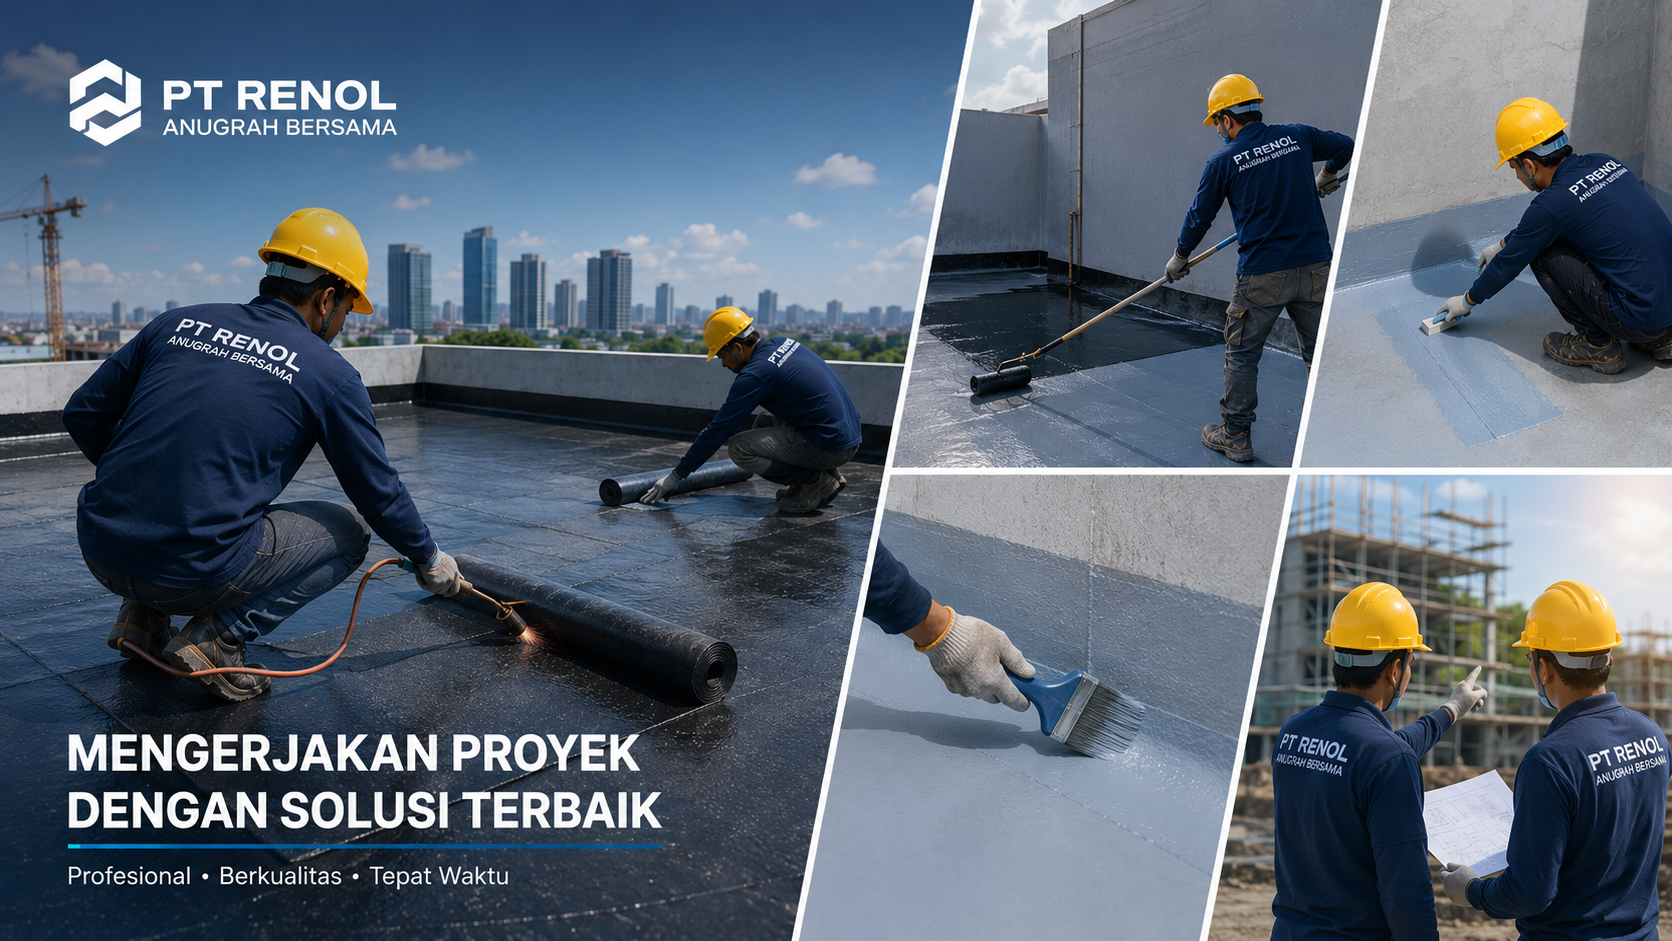
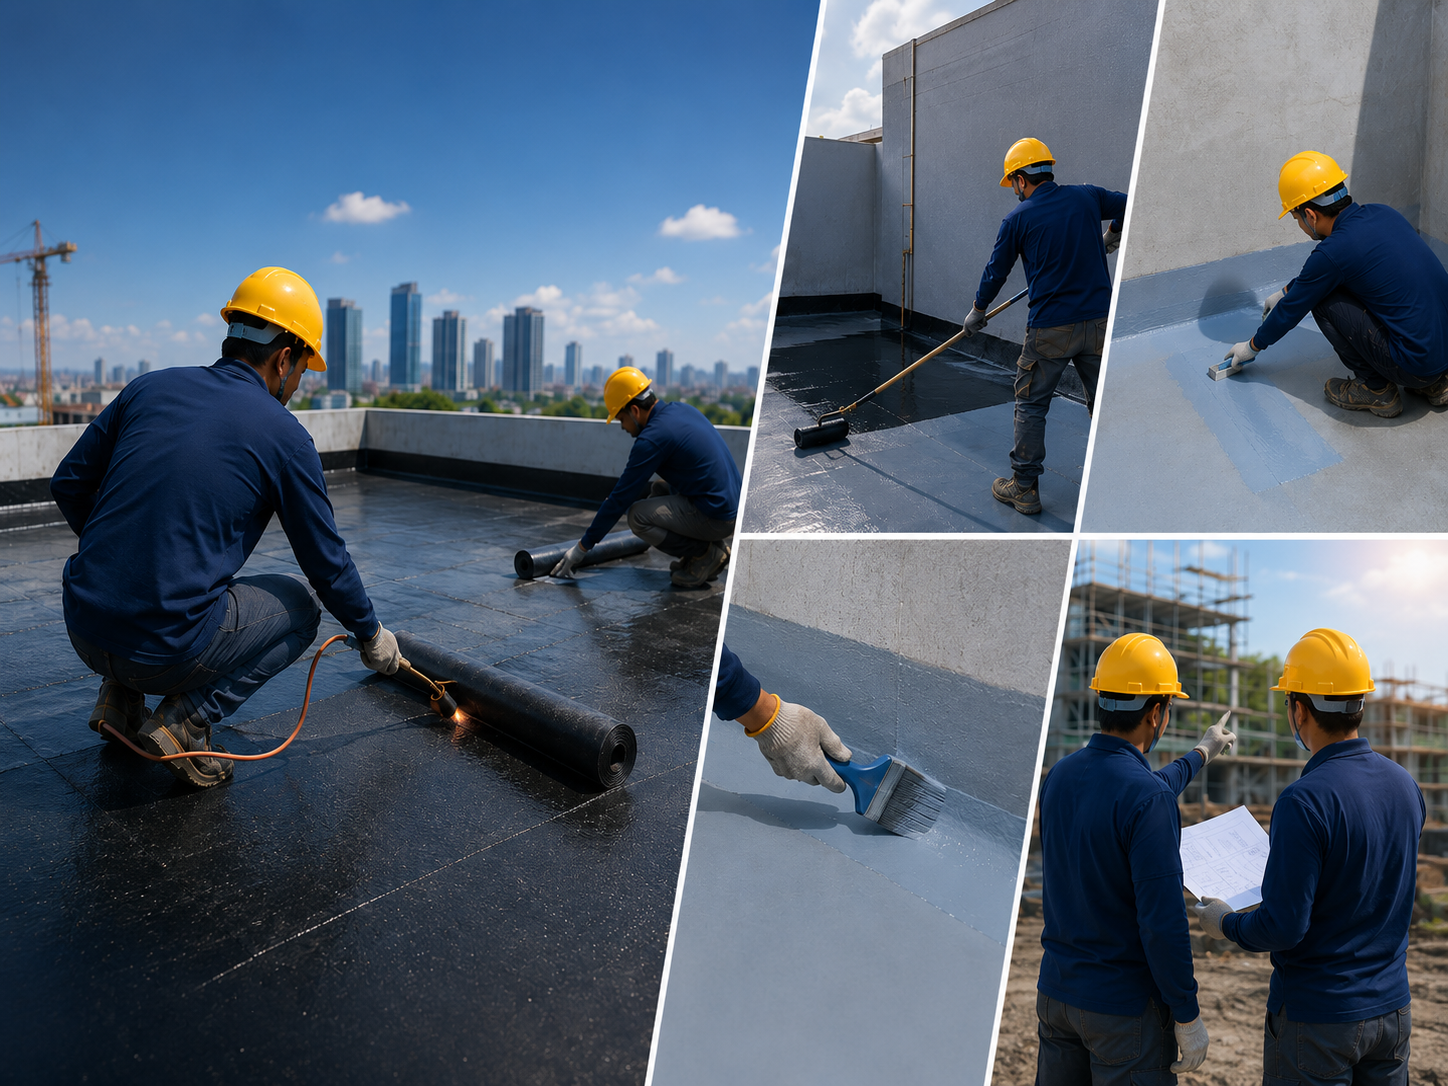
fix done

diff --git a/src/components/Produk/Product.jsx b/src/components/Produk/Product.jsx
@@ -55,69 +55,78 @@ const Product = () => {
           </div>
         </div>
       </div>
-      <div className="grid grid-cols-1 gap-4 items-center md:grid-cols-2 lg:grid-cols-4">
+      <div className="grid grid-cols-1 gap-4  items-center md:grid-cols-2 lg:grid-cols-4">
         {/* untuk animasi */}
-        {filteredProduk.map((item, index) => (
-          <div
-            data-aos="fade-up"
-            data-aos-delay="200"
-            key={index}
-            className="w-full group"
-          >
-            <div className="  group-hover:-translate-y-2 transition-all duration-300 outline-0  outline-[#8db03e] group-hover:outline-1   bg-white rounded-2xl overflow-hidden shadow">
-              <div className=" bg-rab-navy h-50 relative ">
-                <span className=" py-1.5 shadow-2xl top-2 left-2 text-sm group-hover:bg-rab-green transition-colors duration-500  z-2 absolute  px-2 bg-black/60  text-center rounded-full backdrop-blur-3xl text-white ">
-                  {item.kategori}
-                </span>
-                <img
-                  src={item.img}
-                  alt={item.nama}
-                  className="object-cover h-50 group-hover:scale-110 transition-all w-full duration-700  mx-auto "
-                />
-              </div>
-              <div className="px-4 py-6 space-y-1">
-                <div className="space-y-1.5">
-                  <h1 className="font-bold text-rab-navy text-xl">
-                    {item.nama}
-                  </h1>
+
+        {filteredProduk.length > 0 ? (
+          filteredProduk.map((item, index) => (
+            <div
+              data-aos="fade-up"
+              data-aos-delay="200"
+              key={index}
+              className="w-full group"
+            >
+              <div className="  group-hover:-translate-y-2 transition-all duration-300 outline-0  outline-[#8db03e] group-hover:outline-1   bg-white rounded-2xl overflow-hidden shadow">
+                <div className=" bg-rab-navy h-50 relative ">
+                  <span className=" py-1.5 shadow-2xl top-2 left-2 text-sm group-hover:bg-rab-green transition-colors duration-500  z-2 absolute  px-2 bg-black/60  text-center rounded-full backdrop-blur-3xl text-white ">
+                    {item.kategori}
+                  </span>
+                  <img
+                    src={item.img}
+                    alt={item.nama}
+                    className="object-cover h-50 group-hover:scale-110 transition-all w-full duration-700  mx-auto "
+                  />
                 </div>
-                <p
-                  className="text-sm overflow-hidden text-ellipsis line-clamp-2
-  "
-                >
-                  {item.desc}
-                </p>
-                <div className=" outline w-full outline-green-100 mt-2"></div>
-                <div className="mt-5">
-                  <button
-                    onClick={() => {
-                      setOpen(true);
-                      setSelectData(item);
-                    }}
-                    className="border-2 border-[#1d4e89] text-rab-navy rounded-lg group/button  hover:brightness-120 transition-all cursor-pointer duration-500 py-2 px-8 w-full flex gap-4 items-center"
-                  >
-                    <span className="group-hover/button:text-rab-green transition-all duration-300 text-sm">
-                      {" "}
-                      Detail Produk
-                    </span>
-                    <span
-                      className="
-    transition-colors
-    duration-200
-    group-hover/button:text-rab-green
-  "
-                    >
-                      <FiArrowRight
-                        className="ml-0 group-hover/button:ml-10 transition-[margin] duration-700
+                <div className="px-4 py-6 space-y-1">
+                  <div className="space-y-1.5">
+                    <h1 className="font-bold text-rab-navy text-xl">
+                      {item.nama}
+                    </h1>
+                  </div>
+                  <p
+                    className="text-sm overflow-hidden text-ellipsis line-clamp-2
     "
-                      />
-                    </span>
-                  </button>
+                  >
+                    {item.desc}
+                  </p>
+                  <div className=" outline w-full outline-green-100 mt-2"></div>
+                  <div className="mt-5">
+                    <button
+                      onClick={() => {
+                        setOpen(true);
+                        setSelectData(item);
+                      }}
+                      className="border-2 border-[#1d4e89] text-rab-navy rounded-lg group/button  hover:brightness-120 transition-all cursor-pointer duration-500 py-2 px-8 w-full flex gap-4 items-center"
+                    >
+                      <span className="group-hover/button:text-rab-green transition-all duration-300 text-sm">
+                        {" "}
+                        Detail Produk
+                      </span>
+                      <span
+                        className="
+      transition-colors
+      duration-200
+      group-hover/button:text-rab-green
+    "
+                      >
+                        <FiArrowRight
+                          className="ml-0 group-hover/button:ml-10 transition-[margin] duration-700
+      "
+                        />
+                      </span>
+                    </button>
+                  </div>
                 </div>
               </div>
             </div>
+          ))
+        ) : (
+          <div className="mx-auto w-100">
+            <h1 className="font-bold">
+              Cari produk berdasarkan kategori dan nama...
+            </h1>
           </div>
-        ))}
+        )}
       </div>
 
       <div

diff --git a/src/datas/Produk.js b/src/datas/Produk.js
@@ -22,6 +22,17 @@ import RAB_grouting_Lokfix_E77 from "../assets/Produk/Grouting/RAB_grouting_Lokf
 import RAB_grouting_Renderoc_HF_Premix from "../assets/Produk/Grouting/RAB_grouting_Renderoc_HF_Premix.png";
 import RAB_grouting_Renderoc_SM from "../assets/Produk/Grouting/RAB_grouting_Renderoc_SM.png";
 
+// perkuatan struktur
+import RAB_perkuatan_struktur_Nitowrap_CWS_450 from "../assets/Produk/Perkuatan_Struktur/RAB_perkuatan_struktur_Nitowrap_CWS_450.png";
+import RAB_perkuatan_struktur_Nitowrap_CWS300_Nitowrap_Primer_Nitowrap_Encap_Resin from "../assets/Produk/Perkuatan_Struktur/RAB_perkuatan_struktur_Nitowrap_CWS300_Nitowrap_Primer_Nitowrap_Encap_Resin.png";
+import RAB_perkuatan_struktur_Nitowrap_CWS300_System from "../assets/Produk/Perkuatan_Struktur/RAB_perkuatan_struktur_Nitowrap_CWS300_System.png";
+
+// Lainnya
+import RAB_Random_Besi from "../assets/Produk/Lainnya/RAB_Random_Besi.png";
+import RAB_Random_Canal_C from "../assets/Produk/Lainnya/RAB_Random_Canal_C.png";
+import RAB_Random_Hollow from "../assets/Produk/Lainnya/RAB_Random_Hollow.png";
+import RAB_Random_Kalsiboard from "../assets/Produk/Lainnya/RAB_Random_Kalsiboard.png";
+import RAB_Random_Pipa_PVC from "../assets/Produk/Lainnya/RAB_Random_Pipa_PVC.png";
 export const produk = [
   {
     id: 1,
@@ -156,5 +167,65 @@ export const produk = [
     nama: "grouting Renderoc SM",
     desc: "-",
     img: RAB_grouting_Renderoc_SM,
+  },
+
+  // perkuatan strukur
+  {
+    id: 20,
+    kategori: "perkuatan struktur",
+    nama: "Nitowrap CWS 450",
+    desc: "-",
+    img: RAB_perkuatan_struktur_Nitowrap_CWS_450,
+  },
+  {
+    id: 21,
+    kategori: "perkuatan struktur",
+    nama: "Nitowrap CWS300 Nitowrap Primer Nitowrap Encap Resin",
+    desc: "-",
+    img: RAB_perkuatan_struktur_Nitowrap_CWS300_Nitowrap_Primer_Nitowrap_Encap_Resin,
+  },
+  {
+    id: 22,
+    kategori: "perkuatan struktur",
+    nama: "Nitowrap CWS300 System",
+    desc: "-",
+    img: RAB_perkuatan_struktur_Nitowrap_CWS300_System,
+  },
+
+  // Lainnya
+  {
+    id: 23,
+    kategori: "besi",
+    nama: "Besi",
+    desc: "-",
+    img: RAB_Random_Besi,
+  },
+  {
+    id: 24,
+    kategori: "Canal C",
+    nama: "Canal C",
+    desc: "-",
+    img: RAB_Random_Canal_C,
+  },
+  {
+    id: 25,
+    kategori: "Hollow",
+    nama: "Hollow",
+    desc: "-",
+    img: RAB_Random_Hollow,
+  },
+  {
+    id: 26,
+    kategori: "Kalsiboard",
+    nama: "Kalsiboard",
+    desc: "-",
+    img: RAB_Random_Kalsiboard,
+  },
+  {
+    id: 27,
+    kategori: "Pipa PVC",
+    nama: "Pipa PVC",
+    desc: "-",
+    img: RAB_Random_Pipa_PVC,
   },
 ];
